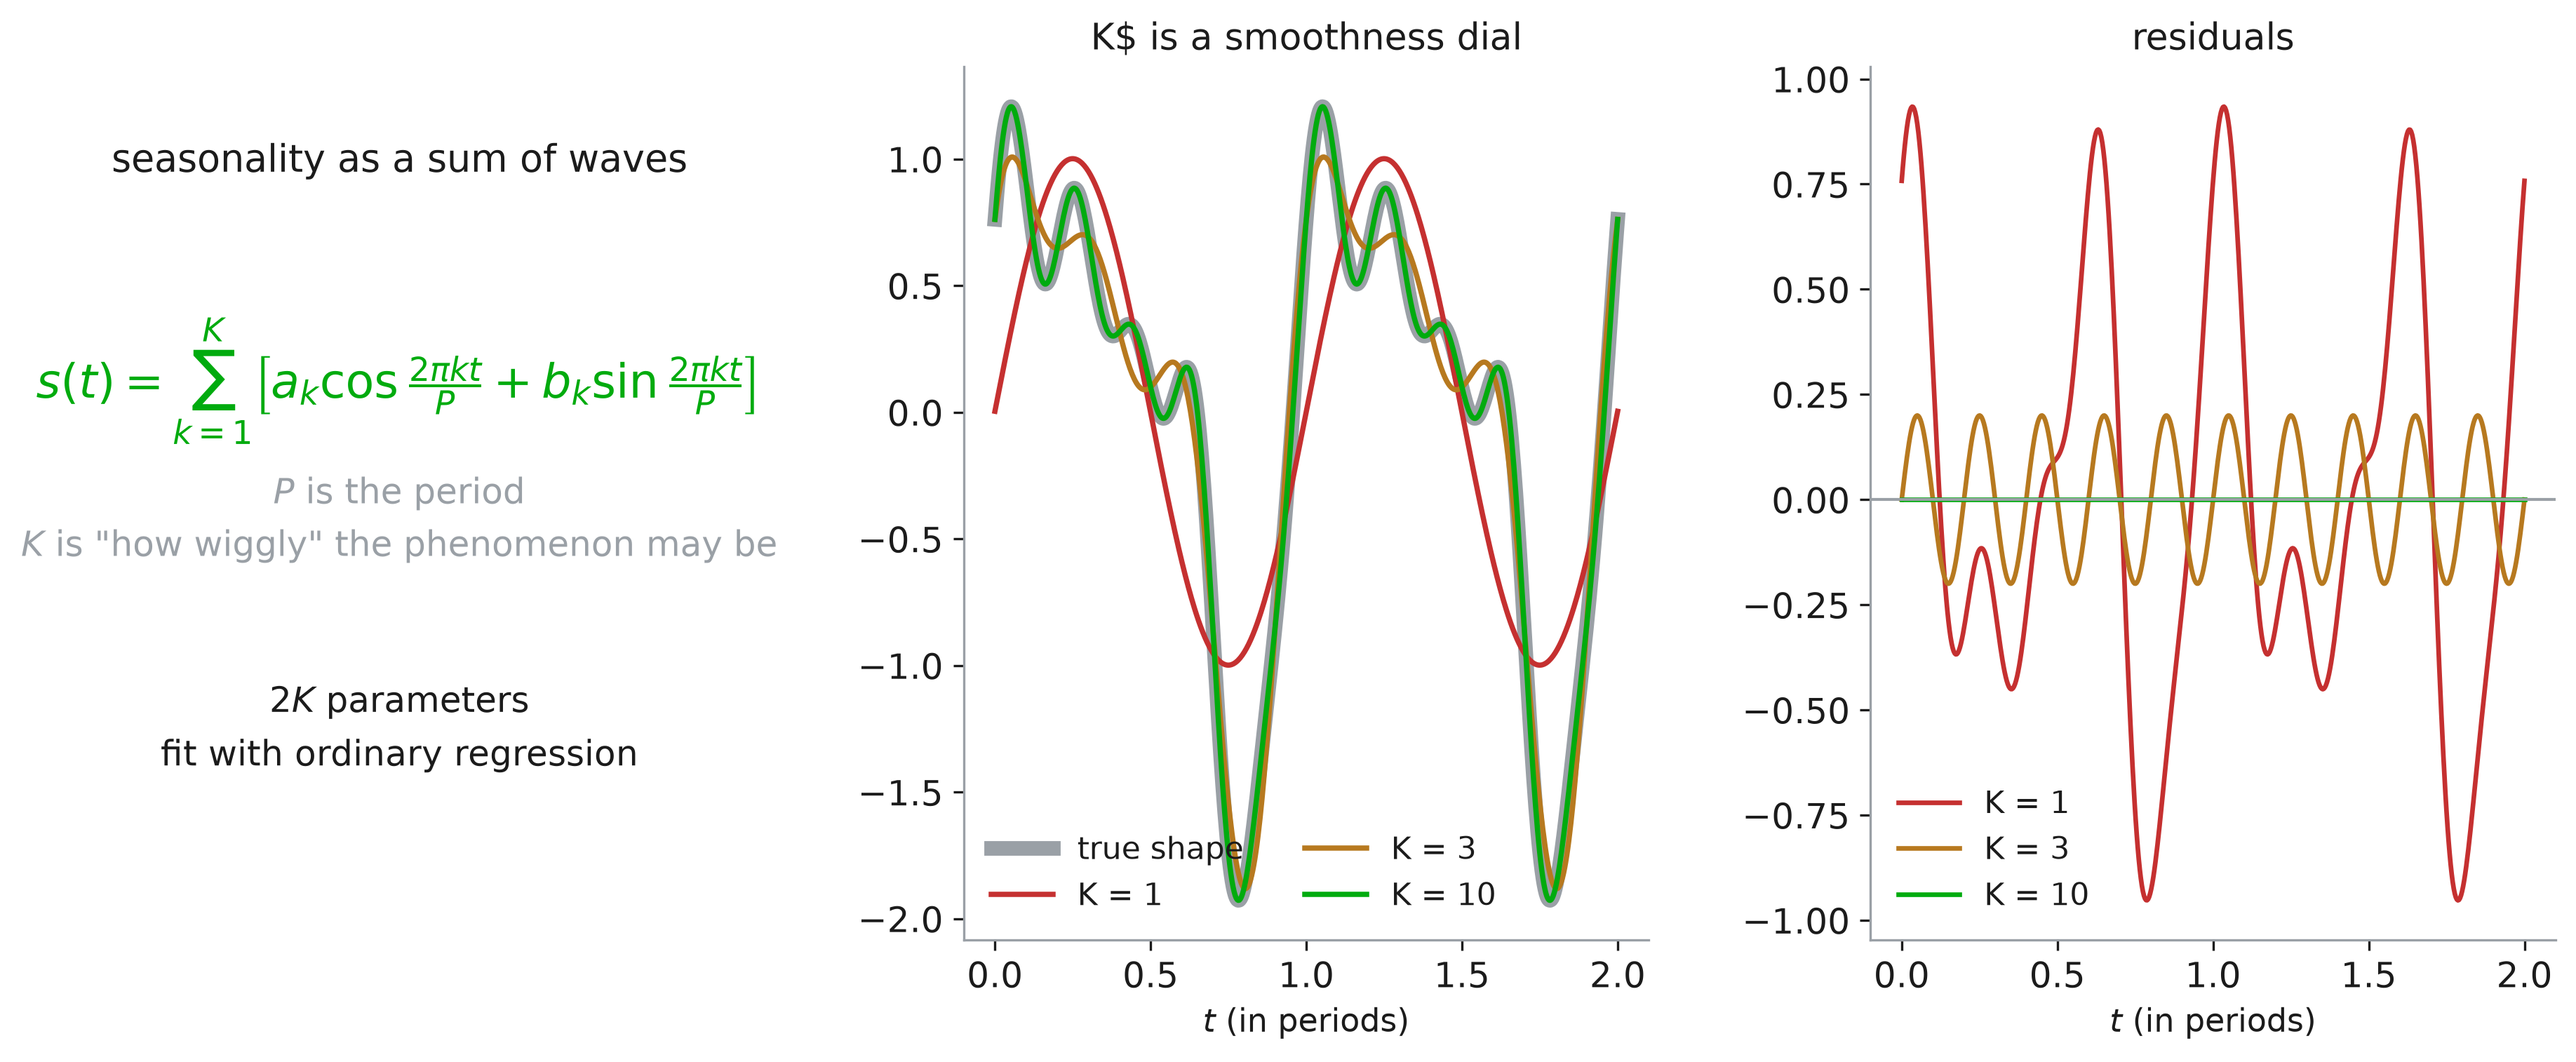
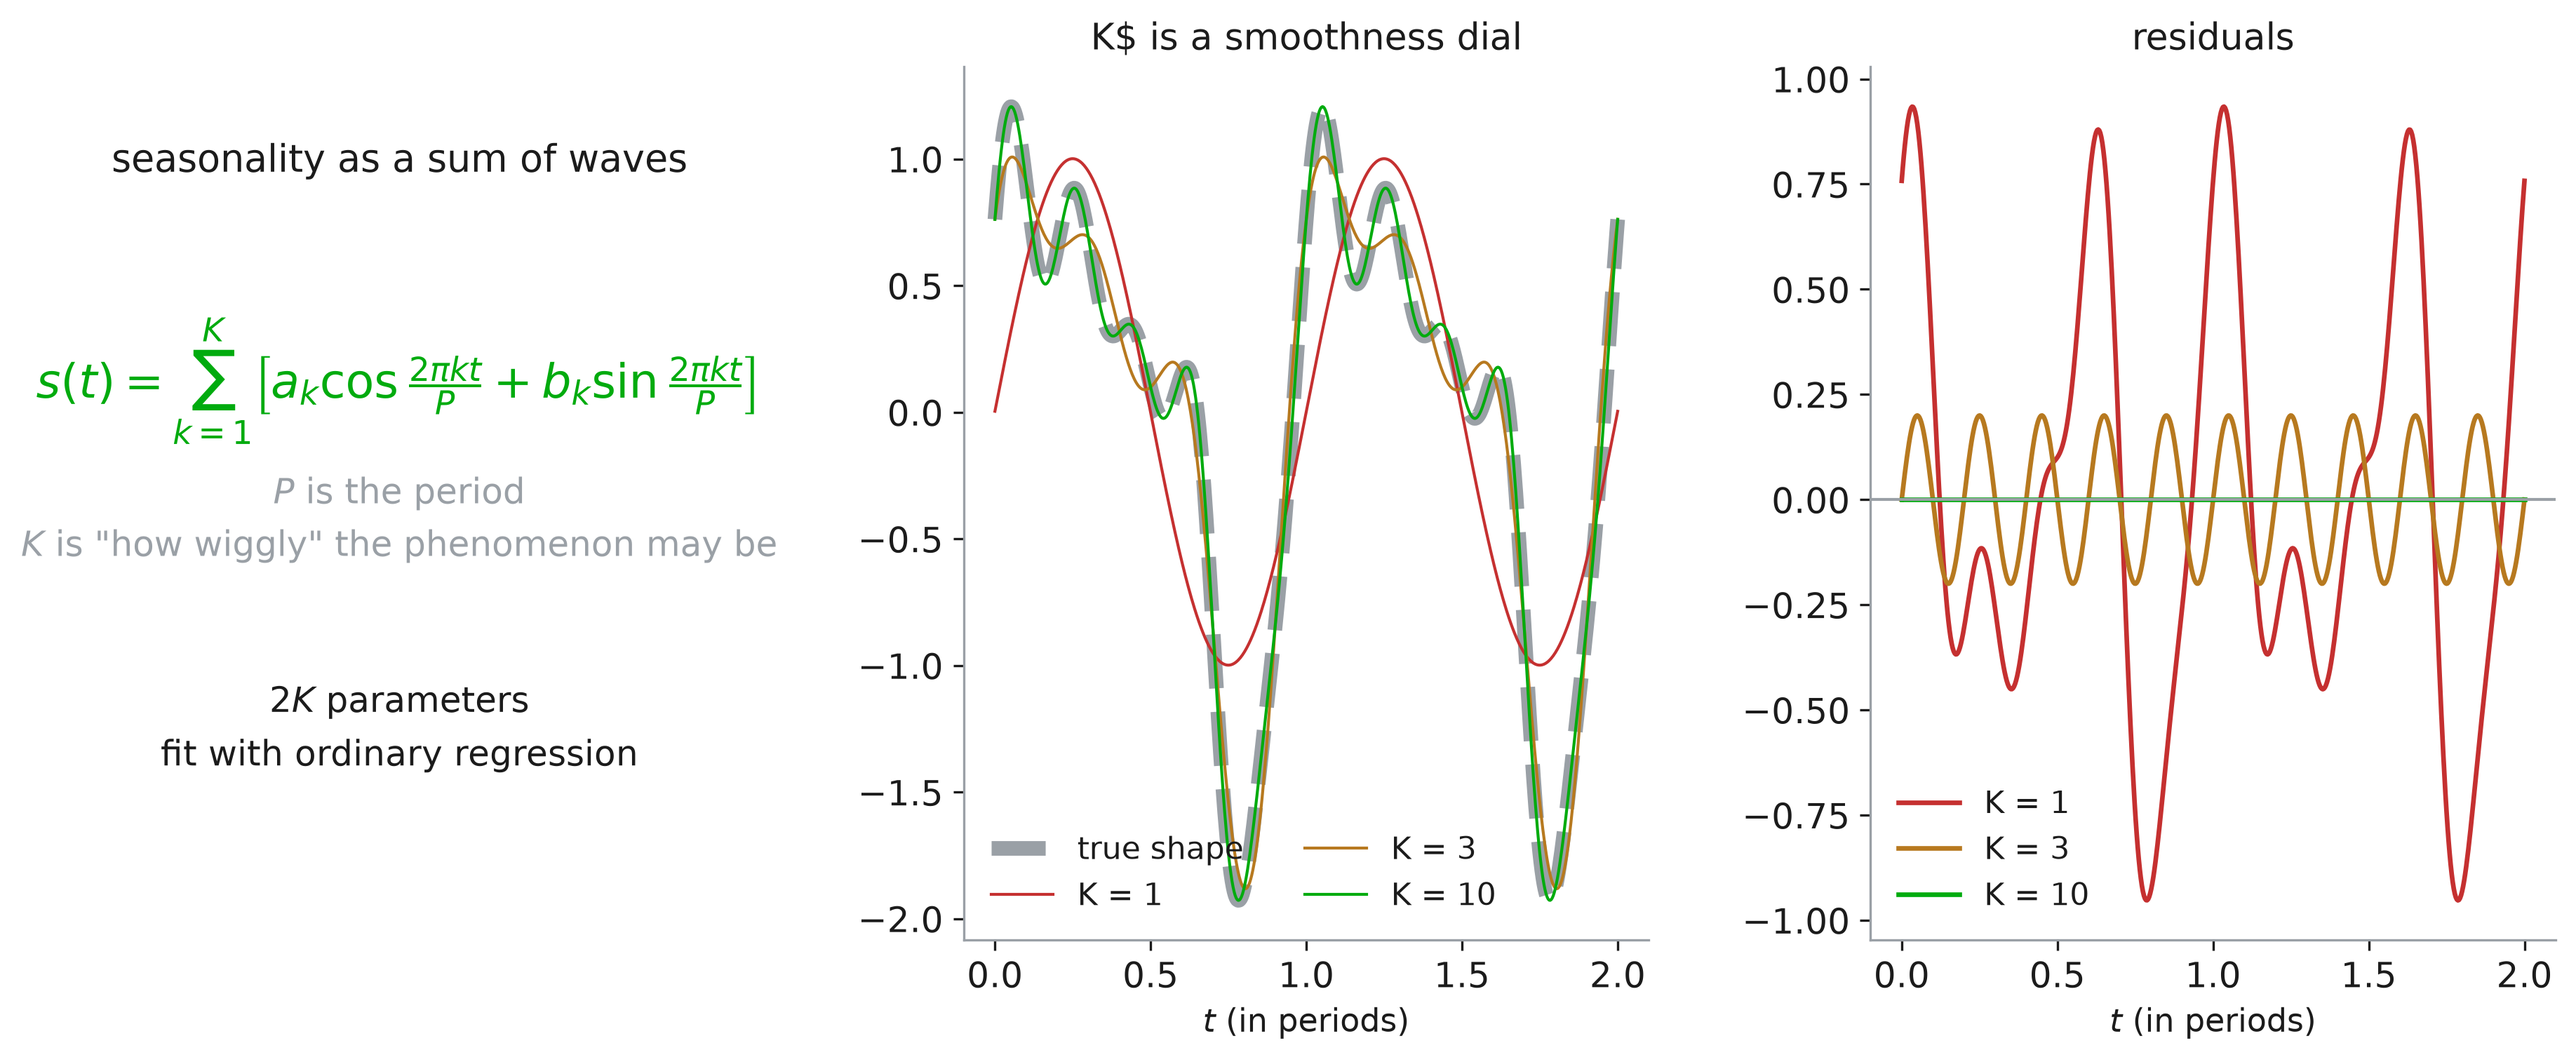
better trend explainations for prophet

diff --git a/scripts/make_figures_cTS2.py b/scripts/make_figures_cTS2.py
@@ -908,7 +908,8 @@ def fig_prophet_model(out: Path) -> None:
 
 def fig_prophet_trend(out: Path) -> None:
     """Piecewise linear with changepoints, plus the saturating alternative."""
-    fig, axes = plt.subplots(1, 3, figsize=WIDE)
+    # fig, axes = plt.subplots(1, 3, figsize=WIDE)
+    fig, axes = plt.subplots(1, 2, figsize=WIDE)
     t = np.arange(300, dtype=float)
     rng = np.random.default_rng(21)
     cps = [80, 170, 240]
@@ -940,19 +941,79 @@ def fig_prophet_trend(out: Path) -> None:
         ("$\\tau$ is the flexibility dial", "large $\\tau$ overfits, small $\\tau$ underfits"),
     ], top=0.70, step=0.18)
 
-    ax = axes[2]
-    tt = np.linspace(0, 300, 300)
-    C = 40.0
-    k = 0.035
-    sat = C / (1 + np.exp(-k * (tt - 130)))
-    ax.plot(tt, sat, color=PURPLE, lw=2.6)
-    ax.axhline(C, color=RED, lw=1.4, ls="--")
-    ax.text(5, C + 1, "capacity $C$ — you must supply it", color=RED, fontsize=11)
-    ax.set_ylim(0, C * 1.2)
-    ax.set_title("logistic growth:\nfor a series with a known ceiling", fontsize=12)
-    tidy(ax, "t")
+    # ax = axes[2]
+    # tt = np.linspace(0, 300, 300)
+    # C = 40.0
+    # k = 0.035
+    # sat = C / (1 + np.exp(-k * (tt - 130)))
+    # ax.plot(tt, sat, color=PURPLE, lw=2.6)
+    # ax.axhline(C, color=RED, lw=1.4, ls="--")
+    # ax.text(5, C + 1, "capacity $C$ — you must supply it", color=RED, fontsize=11)
+    # ax.set_ylim(0, C * 1.2)
+    # ax.set_title("logistic growth:\nfor a series with a known ceiling", fontsize=12)
+    # tidy(ax, "t")
     fig.tight_layout()
     save(fig, out, "prophet_trend")
+
+
+def fig_prophet_trend_eq(out: Path) -> None:
+    """The piecewise-linear trend written out, including the join-up term."""
+    k, m, sj, dj = 0.05, 10.0, 120.0, 0.18
+    t = np.arange(0, 300, dtype=float)
+    a = (t >= sj).astype(float)
+    g_no = (k + a * dj) * t + m
+    g_yes = (k + a * dj) * t + (m + a * (-sj * dj))
+
+    fig, axes = plt.subplots(1, 3, figsize=WIDE)
+
+    ax = axes[0]
+    blank(ax)
+    ax.text(0.5, 0.975,
+            r"$g(t) = \left(k + \mathbf{a}(t)^{\top}\boldsymbol{\delta}\right)\, t"
+            r" + \left(m + \mathbf{a}(t)^{\top}\boldsymbol{\gamma}\right)$",
+            ha="center", fontsize=14, color=BLUE)
+    ax.text(0.5, 0.835, r"$a_j(t) = \mathbb{1}\left[\, t \geq s_j \,\right]$",
+            ha="center", fontsize=14, color=PURPLE)
+    ax.text(0.5, 0.715, "\"has changepoint $j$ happened yet?\"", ha="center",
+            fontsize=10, color=GREY)
+    items(ax, [
+        (r"$k$", "base growth rate"),
+        (r"$\delta_j$", "growth rate change at $s_j$"),
+        (r"$m$", "base offset"),
+        (r"$\gamma_j$", "offset change at $s_j$"),
+    ], top=0.545, step=0.12, fs=12)
+    ax.text(0.5, 0.02, "First bracket correspond to growth rate ; second bracket to offset.",
+            ha="center", fontsize=10.5, color=INK)
+
+    ax = axes[1]
+    ax.step(t, a, color=PURPLE, lw=2.4, where="post")
+    ax.axvline(sj, color=GREY, lw=1.2, ls=":")
+    ax.set_ylim(-0.15, 1.35)
+    ax.set_yticks([0, 1])
+    ax.set_xlabel("t")
+    ax.set_ylabel(r"$a_j(t)$")
+    ax.set_title(r"$\mathbf{a}(t)$ is just a switch per changepoint"
+                 "\nthe rate becomes $k + \\delta_j$ after $s_j$", fontsize=11.5,
+                 color=PURPLE)
+    ax.text(sj + 6, 0.5, r"$s_j$", fontsize=12, color=GREY)
+
+    ax = axes[2]
+    ax.plot(t, g_no, color=RED, lw=2.2, label=r"without $\gamma$")
+    ax.plot(t, g_yes, color=GREEN, lw=2.2, label=r"with $\gamma_j = -s_j \delta_j$")
+    ax.axvline(sj, color=GREY, lw=1.2, ls=":")
+    ax.annotate("", xy=(sj, g_no[int(sj)]), xytext=(sj, g_yes[int(sj)]),
+                arrowprops=dict(arrowstyle="<->", color=INK, lw=1.6))
+    ax.text(sj - 6, (g_no[int(sj)] + g_yes[int(sj)]) / 2,
+            f"jump of\n$s_j\\,\\delta_j$ = {sj * dj:.1f}", ha="right", fontsize=10.5,
+            va="center", linespacing=1.4)
+    ax.set_ylim(None, g_no.max() * 1.12)
+    ax.legend(frameon=False, fontsize=10.5, loc="upper left")
+    ax.set_xlabel("t")
+    ax.set_title(r"$\gamma$ allows jumps", fontsize=11.5)
+    # fig.suptitle(r"changing the slope also moves the line, so each $\delta_j$ needs "
+    #              r"a matching $\gamma_j$", fontsize=13)
+    fig.tight_layout()
+    save(fig, out, "prophet_trend_eq")
 
 
 def _changepoint_demo():
@@ -987,6 +1048,113 @@ def _cp_fit(X, y, alpha):
     return m.coef_[2:], X @ m.coef_
 
 
+def fig_laplace_prior(out: Path) -> None:
+    """What Laplace(0, tau) is, and why its log has a corner at zero."""
+    from scipy.stats import norm, laplace
+    d = np.linspace(-3, 3, 1001)
+
+    fig, axes = plt.subplots(1, 2, figsize=WIDE)
+
+    ax = axes[0]
+    for tau, col in ((0.25, RED), (0.6, PURPLE), (1.5, BLUE)):
+        ax.plot(d, laplace.pdf(d, 0, tau), color=col, lw=2.4,
+                label=rf"$\tau$ = {tau}")
+    ax.legend(frameon=False, fontsize=11)
+    ax.set_xlabel(r"$\delta$")
+    ax.set_yticks([])
+    ax.set_title(r"Laplace$(0, \tau)$:  $p(\delta) \propto e^{-|\delta| / \tau}$"
+                 "\n\"a sharp peak at zero\"", fontsize=12, color=PURPLE)
+    ax.text(0.03, 0.55, "small $\\tau$ $\\equiv$ \"expect zero\"",
+            transform=ax.transAxes, fontsize=10.5, color=INK, linespacing=1.4)
+
+    ax = axes[1]
+    ax.plot(d, laplace.pdf(d, 0, 0.7), color=PURPLE, lw=2.6, label="Laplace")
+    ax.plot(d, norm.pdf(d, 0, 0.7), color=GREY, lw=2.6, ls="--", label="Gaussian")
+    ax.legend(frameon=False, fontsize=11)
+    ax.set_xlabel(r"$\delta$")
+    ax.set_yticks([])
+    ax.set_title("against a Gaussian of the same width", fontsize=12)
+    ax.text(0.03, 0.62, "more mass at exactly\nzero, and fatter tails",
+            transform=ax.transAxes, fontsize=10.5, color=INK, linespacing=1.4)
+
+    fig.tight_layout()
+    save(fig, out, "laplace_prior")
+
+
+def fig_map_example(out: Path) -> None:
+    """MAP with a Laplace prior, worked through: it is soft-thresholding."""
+    from scipy.stats import norm, laplace
+    sigma, tau = 0.5, 0.6
+    lam = sigma ** 2 / tau
+    grid = np.linspace(-3, 4, 40001)
+
+    def numeric_map(mle):
+        post = norm.pdf(grid, mle, sigma) * laplace.pdf(grid, 0, tau)
+        return grid[int(post.argmax())]
+
+    cases = [2.00, 1.00, 0.35, -0.90]
+
+    fig, axes = plt.subplots(1, 3, figsize=WIDE)
+
+    ax = axes[0]
+    blank(ax)
+    ax.text(0.5, 0.975, "For each changepoint:", ha="center",
+            fontsize=13, color=INK)
+    steps = [
+        ("1.", "data:", r"$\hat\delta \pm \sigma$,  here $\sigma = 0.5$"),
+        ("2.", "prior:", r"$\delta \sim$ Laplace$(0, \tau)$,  $\tau = 0.6$"),
+        ("3.", "multiply & take minus the log",
+         r"$(\delta - \hat\delta)^2 / 2\sigma^2 \;+\; |\delta| / \tau$"),
+        ("4.", "minimise", "(it has a closed form)"),
+    ]
+    for i, (num, title, detail) in enumerate(steps):
+        yy = 0.845 - i * 0.145
+        ax.text(0.04, yy, num, fontsize=13.5, color=BLUE, fontweight="bold",
+                va="center")
+        ax.text(0.11, yy + 0.025, title, fontsize=11.5, color=INK, va="center")
+        if detail:
+            ax.text(0.11, yy - 0.035, detail, fontsize=11.5, color=BLUE,
+                    va="center")
+    ax.text(0.5, 0.235, r"$\hat\delta_{\mathrm{MAP}} = \mathrm{sign}(\hat\delta)\,"
+                        r"\max\left(|\hat\delta| - \lambda,\; 0\right)$",
+            ha="center", fontsize=14, color=GREEN)
+    
+    ax = axes[1]
+    xs = np.linspace(-3, 3, 601)
+    ax.plot(xs, xs, color=GREY, lw=1.6, ls=":", label=r"no prior ($\hat\delta$)")
+    ax.plot(xs, np.sign(xs) * np.maximum(np.abs(xs) - lam, 0), color=GREEN, lw=2.8,
+            label="MAP")
+    ax.axvspan(-lam, lam, color=RED, alpha=0.18, lw=0)
+    ax.axhline(0, color=GREY, lw=0.9)
+    ax.legend(frameon=False, fontsize=10.5, loc="upper left")
+    ax.set_xlabel(r"what the data says,  $\hat\delta$")
+    ax.set_ylabel(r"what MAP keeps,  $\hat\delta_{\mathrm{MAP}}$")
+    ax.set_title("soft-thresholding", fontsize=12, color=GREEN)
+    ax.text(0.5, 0.08, rf"dead zone: $|\hat\delta| < {lam:.2f}$" "\nbecomes zero",
+            transform=ax.transAxes, ha="center", fontsize=10, color=RED,
+            linespacing=1.4)
+
+    ax = axes[2]
+    blank(ax)
+    ax.text(0.5, 0.975, "Changepoint candidates", ha="center", fontsize=13)
+    heads = [(r"$\hat\delta$", 0.13), ("MAP", 0.38)]
+    for txt, x in heads:
+        ax.text(x, 0.845, txt, ha="center", fontsize=11, color=GREY)
+    for i, mle in enumerate(cases):
+        num = numeric_map(mle)
+        soft = np.sign(mle) * max(abs(mle) - lam, 0.0)
+        col = RED if abs(soft) < 1e-9 else GREEN
+        yy = 0.715 - i * 0.135
+        ax.text(0.13, yy, f"{mle:+.2f}", ha="center", fontsize=12.5, va="center")
+        ax.text(0.38, yy, f"{num:+.3f}", ha="center", fontsize=12.5, va="center",
+                color=col)
+        if abs(soft) < 1e-9:
+            ax.text(0.64, yy, "killed", ha="right", fontsize=10, color=RED, va="center")
+    fig.suptitle(r"MAP with a Laplace prior has a closed form: it is a threshold", fontsize=13)
+    fig.tight_layout()
+    save(fig, out, "map_example")
+
+
 def fig_prophet_shrinkage(out: Path) -> None:
     """How the changepoints are shrunk, and what the flexibility dial does."""
     t, y, g, cps_true, cand, X = _changepoint_demo()
@@ -997,22 +1165,14 @@ def fig_prophet_shrinkage(out: Path) -> None:
 
     ax = axes[0]
     blank(ax)
-    ax.text(0.5, 0.985, "how the changepoints are chosen", ha="center",
-            fontsize=13, color=INK)
-    ax.text(0.5, 0.885, "Prophet never searches for them", ha="center",
-            fontsize=11.5, color=RED)
-    ax.text(0.5, 0.665, "it lays down 25 candidates over the\n"
-                        "first 80% of the history, and gives\n"
+    ax.text(0.5, 0.665, "Prophet lays down 25 candidates changepoints\n"
+                        "over the first 80% of the history, and gives\n"
                         r"each one a slope change $\delta_j$",
-            ha="center", fontsize=10.5, color=INK, linespacing=1.6)
-    ax.text(0.5, 0.475, r"$\delta_j \;\sim\; \mathrm{Laplace}(0,\, \tau)$",
-            ha="center", fontsize=16, color=PURPLE)
-    box(ax, (0.5, 0.255), 0.96, 0.215,
-        "the MAP under that prior is an\n"
-        r"$L_1$ penalty on the $\delta$s, and $L_1$" + "\n"
-        "sets most of them to EXACTLY zero", ec=PURPLE, fs=11)
-    ax.text(0.5, 0.035, r"$\tau$ is the flexibility dial", ha="center",
-            fontsize=13, color=GREEN)
+            ha="center", fontsize=13, color=INK, linespacing=1.6)
+    ax.text(0.5, 0.45, r"$\delta_j \;\sim\; \mathrm{Laplace}(0,\, \tau)$",
+            ha="center", fontsize=13, color=PURPLE)
+    ax.text(0.5, 0.25, "Penalty on the $\\delta$s sets\nmost of them to EXACTLY zero", ha="center", fontsize=13, color=PURPLE)
+    ax.text(0.5, 0.025, r"$\tau$ is the flexibility dial", ha="center", fontsize=13, color=GREEN)
 
     ax = axes[1]
     ax.axhline(0, color=GREY, lw=1.0)
@@ -1024,7 +1184,7 @@ def fig_prophet_shrinkage(out: Path) -> None:
     ax.set_xlabel("candidate changepoint")
     ax.set_ylabel(r"fitted $\delta_j$")
     ax.set_title(f"at $\\tau$ = {mid}: {kept} of 25 survive\n"
-                 "dashed green = the real breaks", fontsize=11.5)
+                 "dashed green are real breaks", fontsize=11.5)
     ax.text(0.97, 0.05, "the rest are exactly zero", transform=ax.transAxes,
             ha="right", fontsize=10, color=PURPLE)
 
@@ -1036,12 +1196,12 @@ def fig_prophet_shrinkage(out: Path) -> None:
         k = int((np.abs(d) > 1e-4).sum())
         ax.plot(t, fit, color=col, lw=2.2,
                 label=rf"$\tau$ = {alpha}: {k} kept  ({lab})")
-    ax.legend(frameon=False, fontsize=9.5, loc="upper left")
+    ax.legend(frameon=False, fontsize=9.5, loc="lower right")
     ax.set_xlabel("t")
     ax.set_title("small $\\tau$ forces a straight trend,\n"
                  "large $\\tau$ lets it chase the noise", fontsize=11.5)
-    fig.suptitle(r"the changepoint prior scale $\tau$ is one number that decides "
-                 "how bendy the trend may be", fontsize=13)
+    # fig.suptitle(r"the changepoint prior scale $\tau$ is one number that decides "
+    #              "how bendy the trend may be", fontsize=13)
     fig.tight_layout()
     save(fig, out, "prophet_shrinkage")
 
@@ -1075,9 +1235,9 @@ def fig_fourier_seasonality(out: Path) -> None:
             ha="center", fontsize=12, color=INK, linespacing=1.5)
 
     ax = axes[1]
-    ax.plot(t, target, color=GREY, lw=5, label="true shape")
+    ax.plot(t, target, '--', color=GREY, lw=5, label="true shape")
     for K, col in [(1, RED), (3, AMBER), (10, GREEN)]:
-        ax.plot(t, fourier_fit(K), color=col, lw=1.8, label=f"K = {K}")
+        ax.plot(t, fourier_fit(K), color=col, lw=1, label=f"K = {K}")
     ax.legend(frameon=False, fontsize=10.5, ncol=2)
     ax.set_title("K$ is a smoothness dial", fontsize=12.5)
     ax.set_xlabel("$t$ (in periods)")
@@ -1179,6 +1339,9 @@ FIGURES = (
     fig_arima_limits,
     fig_prophet_model,
     fig_prophet_trend,
+    fig_prophet_trend_eq,
+    fig_laplace_prior,
+    fig_map_example,
     fig_prophet_shrinkage,
     fig_fourier_seasonality,
     fig_prophet_events,
